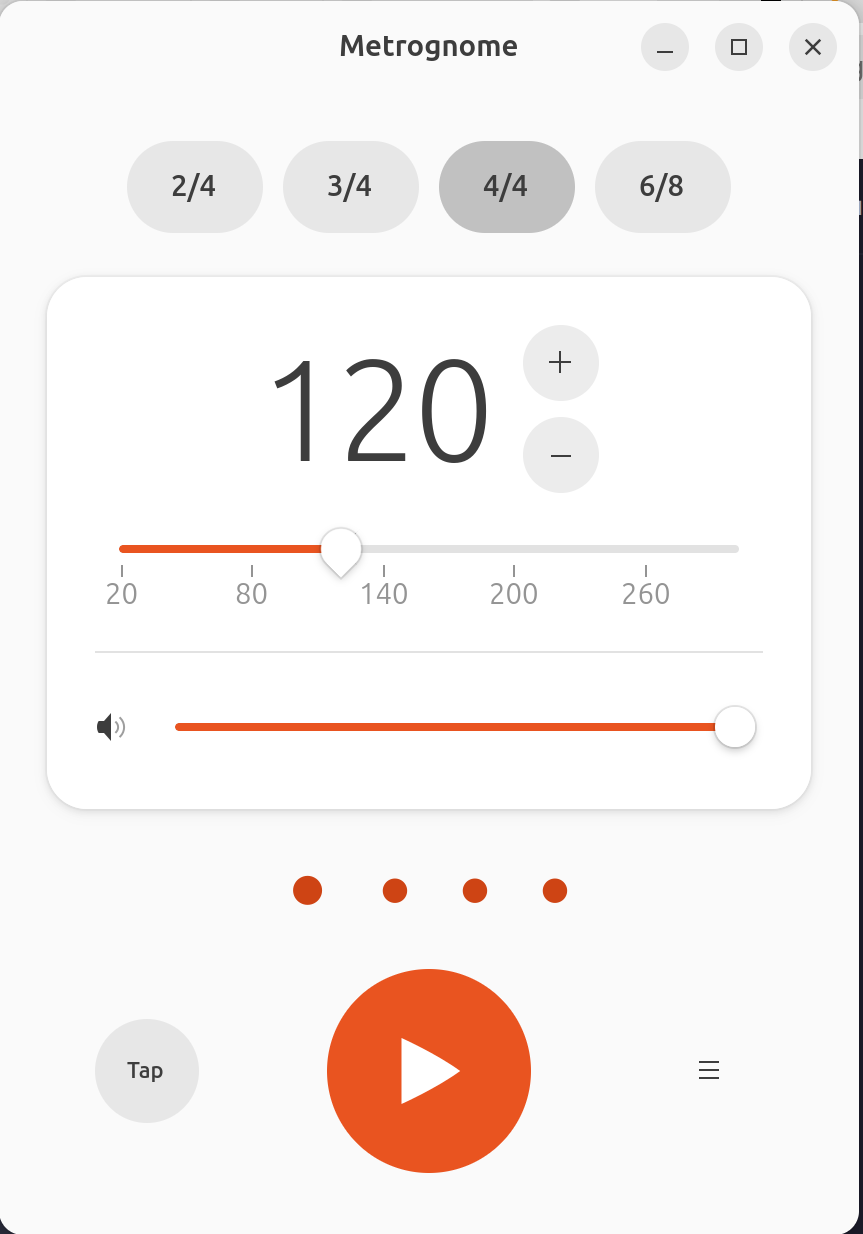
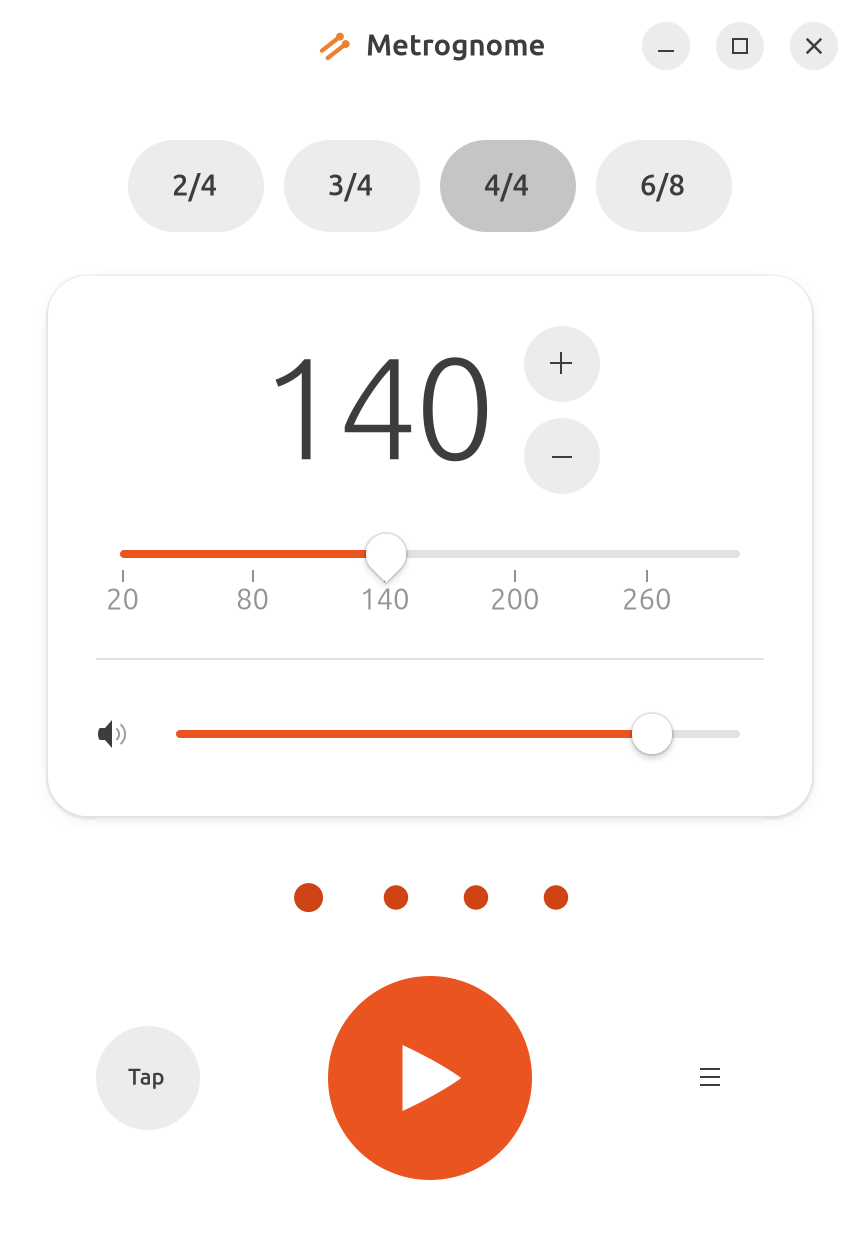
docs: refresh app screenshot

diff --git a/docs/readme/README.ur.md b/docs/readme/README.ur.md
@@ -40,6 +40,10 @@
   <p>
     <strong>درست تال۔</strong> اپنے کلک کی آوازیں۔ مقامی GNOME تجربہ۔<br>Metrognome وقت GUI ٹائمر میں نہیں، آڈیو کال بیک میں رکھتا ہے۔
   </p>
+
+  <p>
+    <img src="../../assets/screenshots/main-window.png" alt="Metrognome main window showing time signatures, 140 BPM, volume, beat indicators, tap tempo, playback, and settings controls" width="560">
+  </p>
 </div>
 
 <div dir="rtl" align="right">
@@ -107,5 +111,6 @@ Classic پری سیٹ Kenney “Interface Sounds” کے ایمبیڈیڈ CC0 1.
 ## لائسنس
 
 MIT لائسنس کے تحت جاری کیا گیا۔
+
 
 </div>

diff --git a/docs/readme/README.te.md b/docs/readme/README.te.md
@@ -40,6 +40,9 @@
   <p>
     <strong>ఖచ్చితమైన లయ.</strong> కస్టమ్ క్లిక్ శబ్దాలు. నేటివ GNOME అనుభవం.<br>Metrognome సమయాన్ని GUI టైమర్లో కాకుండా ఆడియో కాల్బ్యాక్లో నిర్వహిస్తుంది.
   </p>
+  <p>
+    <img src="../../assets/screenshots/main-window.png" alt="Metrognome main window showing time signatures, 140 BPM, volume, beat indicators, tap tempo, playback, and settings controls" width="560">
+  </p>
 </div>
 
 ## ముఖ్య ఫీచర్లు

diff --git a/docs/readme/README.ar.md b/docs/readme/README.ar.md
@@ -40,6 +40,10 @@
   <p>
     <strong>إيقاع دقيق.</strong> أصوات نقر مخصصة. تجربة GNOME أصلية.<br>يحتفظ Metrognome بالزمن في رد نداء الصوت، لا في مؤقّت واجهة المستخدم.
   </p>
+
+  <p>
+    <img src="../../assets/screenshots/main-window.png" alt="Metrognome main window showing time signatures, 140 BPM, volume, beat indicators, tap tempo, playback, and settings controls" width="560">
+  </p>
 </div>
 
 <div dir="rtl" align="right">
@@ -107,5 +111,6 @@ Audio callback
 ## الترخيص
 
 منشور تحت ترخيص MIT.
+
 
 </div>

diff --git a/docs/readme/README.pa.md b/docs/readme/README.pa.md
@@ -40,6 +40,9 @@
   <p>
     <strong>ਸ਼ੁੱਧ ਲਯ।</strong> ਕਸਟਮ ਕਲਿੱਕ ਆਵਾਜ਼ਾਂ। ਨੇਟਿਵ GNOME ਤਜਰਬਾ।<br>Metrognome ਸਮਾਂ GUI ਟਾਈਮਰ ਵਿੱਚ ਨਹੀਂ, ਆਡੀਓ ਕਾਲਬੈਕ ਵਿੱਚ ਰੱਖਦਾ ਹੈ।
   </p>
+  <p>
+    <img src="../../assets/screenshots/main-window.png" alt="Metrognome main window showing time signatures, 140 BPM, volume, beat indicators, tap tempo, playback, and settings controls" width="560">
+  </p>
 </div>
 
 ## ਮੁੱਖ ਵਿਸ਼ੇਸ਼ਤਾਵਾਂ

diff --git a/docs/readme/README.th.md b/docs/readme/README.th.md
@@ -40,6 +40,9 @@
   <p>
     <strong>จังหวะแม่นยำ</strong> เสียงคลิกแบบกำหนดเอง ประสบการณ์ GNOME แบบเนทีฟ<br>Metrognome คุมจังหวะใน audio callback ไม่ใช่ในตัวจับเวลาของ GUI
   </p>
+  <p>
+    <img src="../../assets/screenshots/main-window.png" alt="Metrognome main window showing time signatures, 140 BPM, volume, beat indicators, tap tempo, playback, and settings controls" width="560">
+  </p>
 </div>
 
 ## จุดเด่น

diff --git a/docs/readme/README.hi.md b/docs/readme/README.hi.md
@@ -40,6 +40,9 @@
   <p>
     <strong>सटीक लय।</strong> कस्टम क्लिक ध्वनियाँ। नेटिव GNOME अनुभव।<br>Metrognome समय GUI टाइमर में नहीं, ऑडियो कॉलबैक में रखता है।
   </p>
+  <p>
+    <img src="../../assets/screenshots/main-window.png" alt="Metrognome main window showing time signatures, 140 BPM, volume, beat indicators, tap tempo, playback, and settings controls" width="560">
+  </p>
 </div>
 
 ## मुख्य विशेषताएँ

diff --git a/docs/readme/README.mr.md b/docs/readme/README.mr.md
@@ -40,6 +40,9 @@
   <p>
     <strong>अचूक लय.</strong> कस्टम क्लिक आवाज़. नेटिव GNOME अनुभव.<br>Metrognome वेळ GUI टाइमरमध्ये नव्हे, तर ऑडिओ कॉलबॅकमध्ये ठेवतो.
   </p>
+  <p>
+    <img src="../../assets/screenshots/main-window.png" alt="Metrognome main window showing time signatures, 140 BPM, volume, beat indicators, tap tempo, playback, and settings controls" width="560">
+  </p>
 </div>
 
 ## मुख्य वैशिष्ट्ये

diff --git a/docs/readme/README.bn.md b/docs/readme/README.bn.md
@@ -40,6 +40,9 @@
   <p>
     <strong>নিখুঁত ছন্দ।</strong> কাস্টম ক্লিক শব্দ। নেটিভ GNOME অভিজ্ঞতা।<br>Metrognome সময় রাখে অডিও কলব্যাকে, GUI টাইমারে নয়।
   </p>
+  <p>
+    <img src="../../assets/screenshots/main-window.png" alt="Metrognome main window showing time signatures, 140 BPM, volume, beat indicators, tap tempo, playback, and settings controls" width="560">
+  </p>
 </div>
 
 ## প্রধান বৈশিষ্ট্য

diff --git a/docs/readme/README.uk.md b/docs/readme/README.uk.md
@@ -40,6 +40,9 @@
   <p>
     <strong>Точний ритм.</strong> Власні звуки. Нативний інтерфейс GNOME.<br>Metrognome відлічує час в аудіозворотному виклику, а не в таймері GUI.
   </p>
+  <p>
+    <img src="../../assets/screenshots/main-window.png" alt="Metrognome main window showing time signatures, 140 BPM, volume, beat indicators, tap tempo, playback, and settings controls" width="560">
+  </p>
 </div>
 
 ## Основні можливості

diff --git a/docs/readme/README.ru.md b/docs/readme/README.ru.md
@@ -40,6 +40,9 @@
   <p>
     <strong>Точный ритм.</strong> Свои звуки. нативный интерфейс GNOME.<br>Metrognome считает время в аудиокалбэке, а не в таймере GUI.
   </p>
+  <p>
+    <img src="../../assets/screenshots/main-window.png" alt="Metrognome main window showing time signatures, 140 BPM, volume, beat indicators, tap tempo, playback, and settings controls" width="560">
+  </p>
 </div>
 
 ## Основные возможности

diff --git a/docs/readme/README.ja.md b/docs/readme/README.ja.md
@@ -40,6 +40,9 @@
   <p>
     <strong>正確なリズム。</strong> カスタムクリック音。ネイティブな GNOME 体験。<br>Metrognome は GUI タイマーではなく、オーディオコールバックで拍を保持します。
   </p>
+  <p>
+    <img src="../../assets/screenshots/main-window.png" alt="Metrognome main window showing time signatures, 140 BPM, volume, beat indicators, tap tempo, playback, and settings controls" width="560">
+  </p>
 </div>
 
 ## 主な特徴

diff --git a/docs/readme/README.vi.md b/docs/readme/README.vi.md
@@ -40,6 +40,9 @@
   <p>
     <strong>Nhịp chính xác.</strong> Âm click tùy chỉnh. Trải nghiệm GNOME bản địa.<br>Metrognome giữ nhịp trong callback âm thanh, không phải trong bộ định thời của GUI.
   </p>
+  <p>
+    <img src="../../assets/screenshots/main-window.png" alt="Metrognome main window showing time signatures, 140 BPM, volume, beat indicators, tap tempo, playback, and settings controls" width="560">
+  </p>
 </div>
 
 ## Điểm nổi bật
